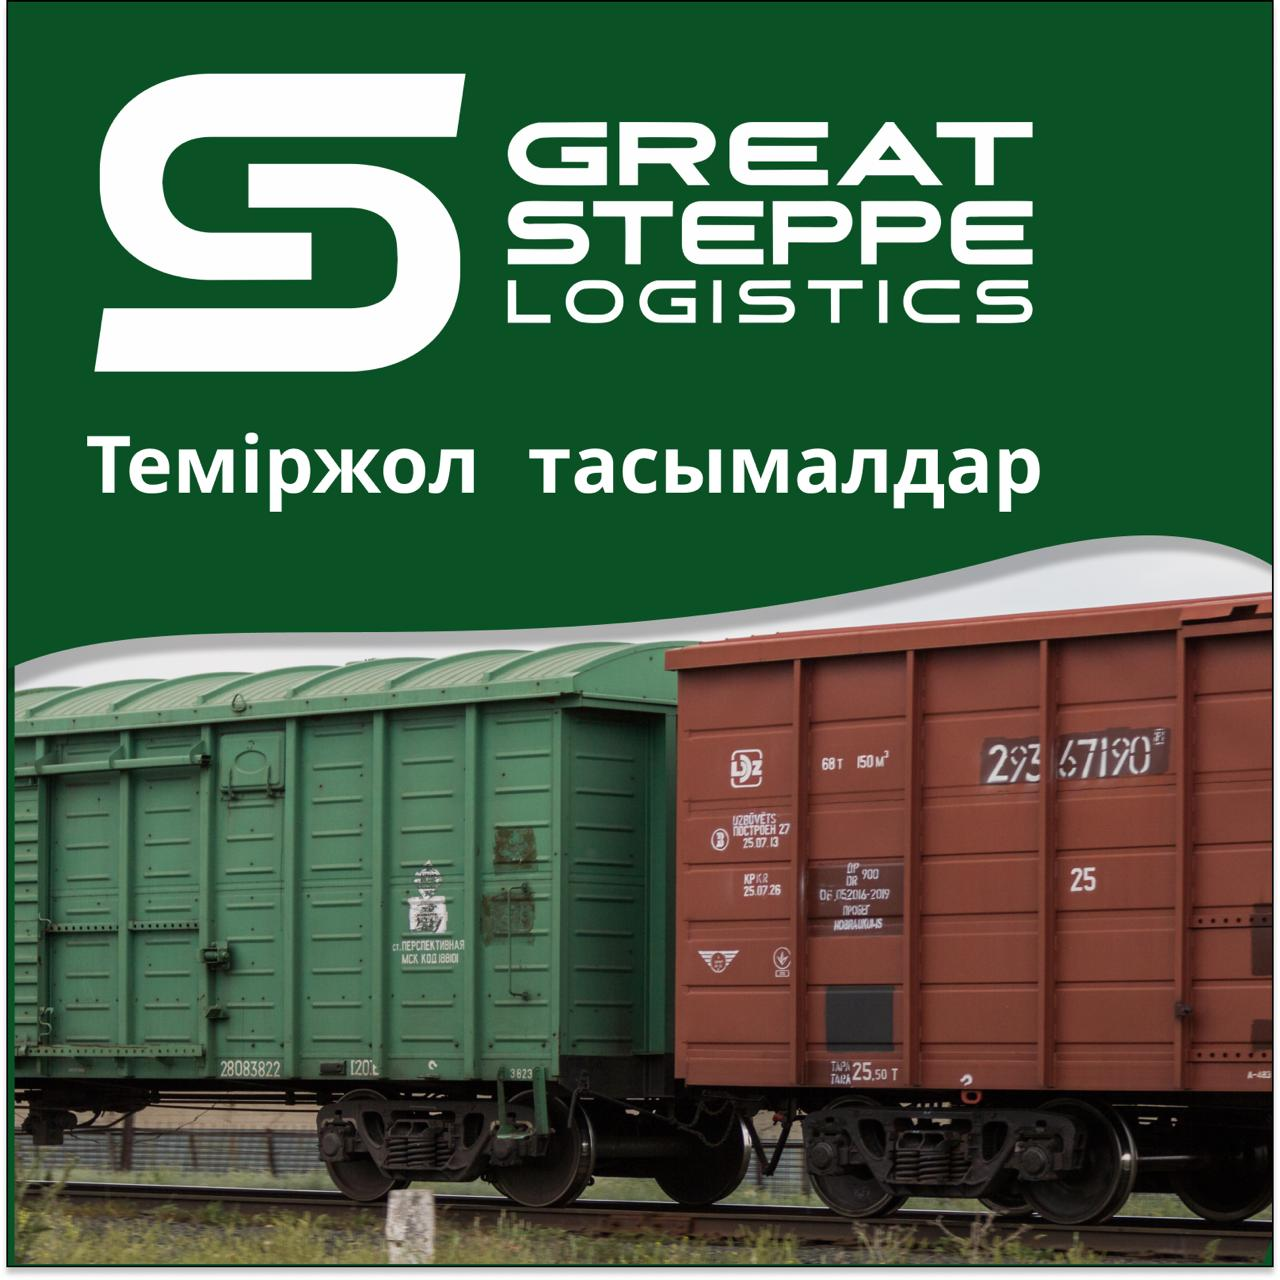
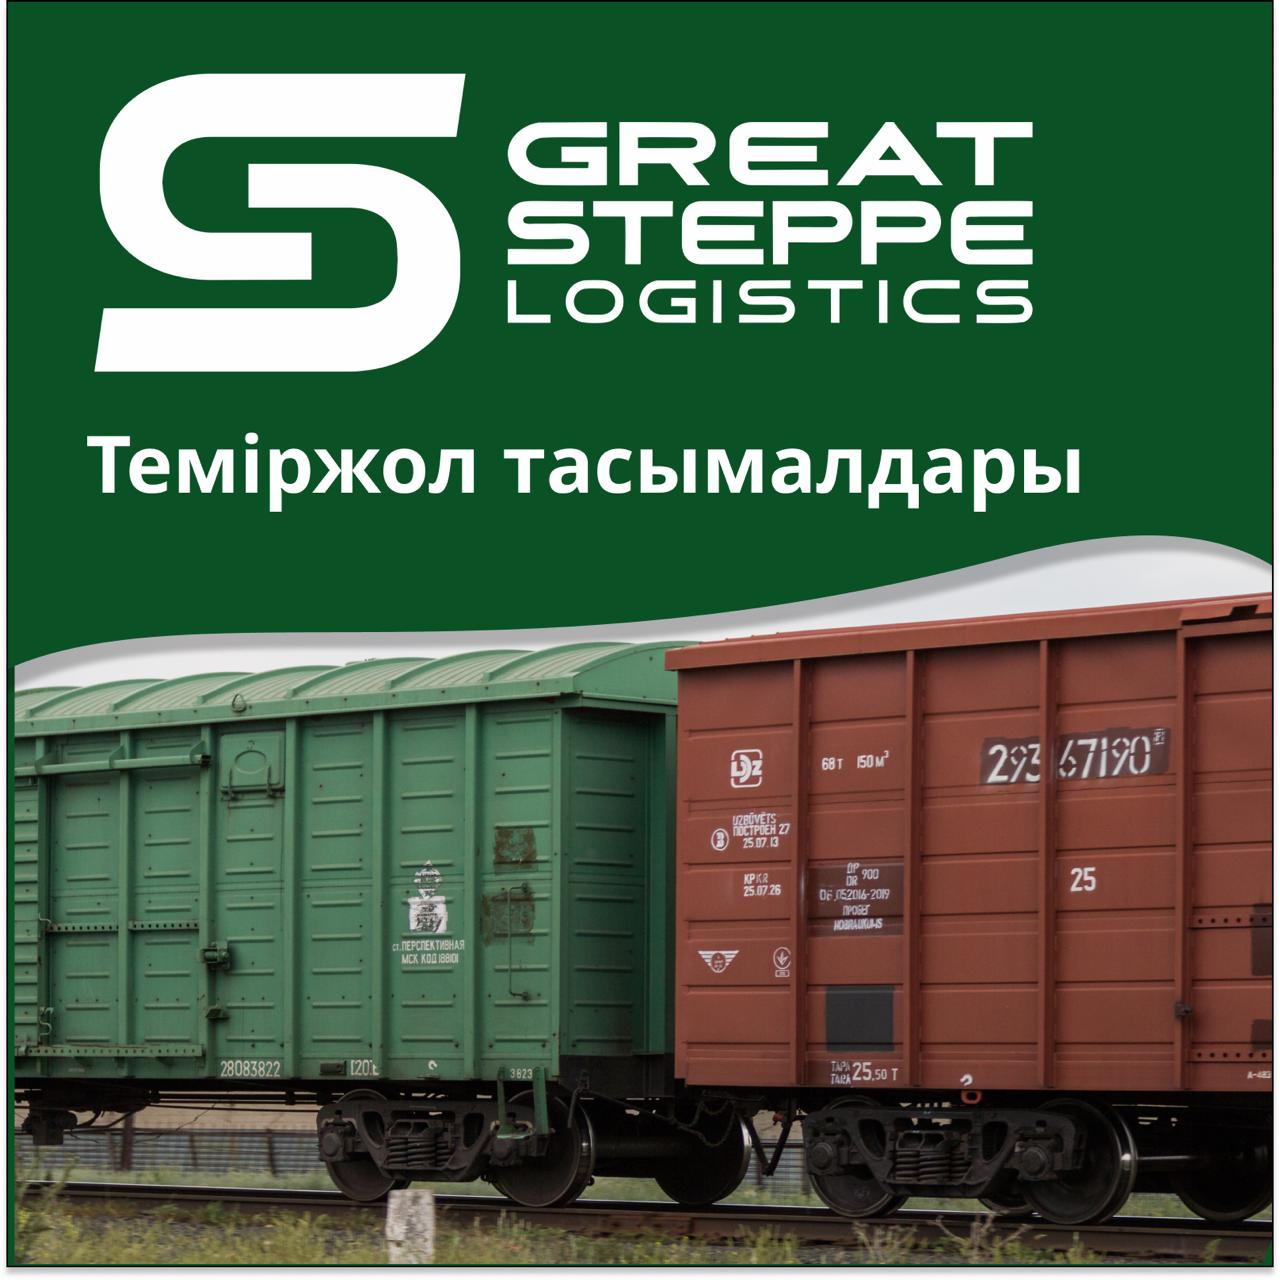
fix: grammar fixes

Changed region(s): [[0.375, 0.3438, 0.8438, 0.4062]]

diff --git a/src/locales/kk/translation.js b/src/locales/kk/translation.js
@@ -102,7 +102,7 @@ export default {
     mission: {
       heading: "Біздің миссиямыз",
       text:
-        "сапалы қызмет көрсету арқылы серіктестеріміз үшін өнімдерімізде құндылық құру. Біз логистикалық тізбектің барлық кезеңдерінде сенімділіктің жоғары деңгейін қамтамасыз етуге тырысамыз, тіпті ең қиын жағдайларда да сенім артуға болатын кәсіби қызметті ұсынамыз."
+        "Сапалы қызмет көрсету арқылы серіктестеріміз үшін өнімдерімізде құндылық құру. Біз логистикалық тізбектің барлық кезеңдерінде сенімділіктің жоғары деңгейін қамтамасыз етуге тырысамыз, тіпті ең қиын жағдайларда да сенім артуға болатын кәсіби қызметті ұсынамыз."
     },
     principles: {
       heading: "Біздің принциптеріміз",
@@ -122,7 +122,7 @@ export default {
         individual: {
           title: "Жеке көзқарас",
           text:
-            "Біз мүмкіндігінше бейімделген шешімдерді ұсыну үшін әр клиенттің қажеттіліктерін егжей-тегжейлі қарастырамыз."
+            "Біз мүмкіндігінше бейімделген шешімдерді ұсыну үшін әр клиенттің қажеттіліктерін жан-жақты қарастырамыз."
         }
       }
     },
@@ -374,7 +374,7 @@ export default {
       },
       multimodal: {
         title: "Көп модалдылық",
-        text: "Контейнерлер мультимодальды тасымалдау тізбектеріне оңай қосылады: теңіз, теміржол, автомобиль және әуе көлігі."
+        text: "Контейнерлер мультимодалды тасымалдау тізбектеріне оңай қосылады: теңіз, теміржол, автомобиль және әуе көлігі."
       },
       tracking: {
         title: "Бақылау мен басқарудың жеңілдігі",
@@ -405,7 +405,7 @@ export default {
       text: "Контейнерлік тасымалдаудың негізгі артықшылықтары:",
       list: [
         "Жүктің қауіпсіздігі: Контейнердегі жүк сыртқы әсерлерден және механикалық зақымданудан қорғалады. Бұл сынғыш немесе нәзік тауарларды тасымалдауда өте маңызды.",
-        "Әмбебаптылық: Контейнерлер әртүрлі жүк түрлерін тасымалдауға жарамды, сыпырғыштардан бастап температураға сезімтал тауарларға дейін. Арнайы контейнерлер бар, олар қажетті температура режимін ұстайтын жүйелермен жабдықталған немесе қауіпті жүктерді тасымалдауға арналған.",
+        "Әмбебаптылық: Контейнерлер әртүрлі жүк түрлерін тасымалдауға жарамды, сусымалыдан бастап температураға сезімтал тауарларға дейін. Арнайы контейнерлер бар, олар қажетті температура режимін ұстайтын жүйелермен жабдықталған немесе қауіпті жүктерді тасымалдауға арналған.",
         "Модульділік және жүктеу/түсірудің ыңғайлылығы: Контейнерлердің стандартты өлшемдері арқасында оларды оңай біріктіріп, қоймада немесе көлік құралдарында орналастыруға болады. Бұл жүктеу және түсіру процесін жеңілдетіп, осы операцияларға кететін шығындарды азайтады.",
         "Көп модалды тасымалдар: Контейнерлерді кез келген көлік түрімен (автомобиль, теміржол, теңіз, әуе) тасымалдауға болады, бұл жеткізу тізбегінде түрлі көлік түрлерін пайдаланып, маршрутты оңтайландыруға және шығындарды азайтуға мүмкіндік береді."
       ]
@@ -576,7 +576,7 @@ multimodal: {
       p2: "Көп модалды тасымалдаудың ерекшелігі – бір логистикалық компания тасымалдауды ұйымдастырып, келісімшарт бойынша тауардың қауіпсіздігін қамтамасыз етеді. Сонымен қатар, ол жүктің тиеу-түсіру жұмыстары, жүктің сақтандыруы және басқа да кешенді қызметтерді көрсетеді."
     },
     benefits: {
-      heading: "Модальді транспорттың артықшылықтары",
+      heading: "Модалды транспорттың артықшылықтары",
       list: [
         "Өнім А нүктесінен В нүктесіне ең қысқа мерзімде жеткізіледі. Бұл әсіресе тез бұзылатын өнімдерді тасымалдау кезінде маңызды (рефрижераторлы көлік).",
         "Тасымалдау қызметтері шығындары төмен, себебі тапсырыс беруші тек бір ғана көлік компаниясына төлейді және басқа компанияларды таңдау мен тиеу-туарлау жұмыстарын ұйымдастыруға уақыт пен ақша жұмсамайды.",
@@ -645,7 +645,7 @@ multimodal: {
     heading: "Үлкен көлемді тасымалдау кезеңдері",
     items: {
       app: "Тапсырыс алу",
-      route: "Тасымалдау маршруттын құру",
+      route: "Тасымалдау маршрутын құру",
       rate: "Тарифті есептеу",
       docs: "Құжаттарды рәсімдеу",
       delivery: "Жүкті жеткізу",

diff --git a/server/api/templates/email/consultation_email.html b/server/api/templates/email/consultation_email.html
@@ -55,7 +55,7 @@
             <p>Наши специалисты свяжутся с вами в ближайшее время.</p>
         </div>
         <div class="footer">
-            <p>&copy; 2025 Ваша Компания. Все права защищены.</p>
+            <p>&copy; 2025 Great Steppe Logistics. Все права защищены.</p>
             <img src="http://0.0.0.0:8000/static/core/api/assets/logo.png" alt="Great Steppe Logistics">
         </div>
     </div>

diff --git a/server/api/templates/email/admin_notification.html b/server/api/templates/email/admin_notification.html
@@ -24,7 +24,7 @@
         <p><strong>Телефон:</strong> {{ phone }}</p>
         <p><strong>Email:</strong> {{ email }}</p>
         <p><strong>Комментарий:</strong> {{ comment }}</p>
-        <p>&copy; {{ year }} Ваша компания</p>
+        <p>&copy; {{ year }} Great Steppe Logistics</p>
     </div>
 </body>
 </html>

diff --git a/src/services/api.js b/src/services/api.js
@@ -1,4 +1,4 @@
-const BASE_URL = 'http://78.40.108.108:8009/'
+const BASE_URL = 'https://bot.gslog.kz/'
 
 const endpoint = `${BASE_URL}api/`
 
